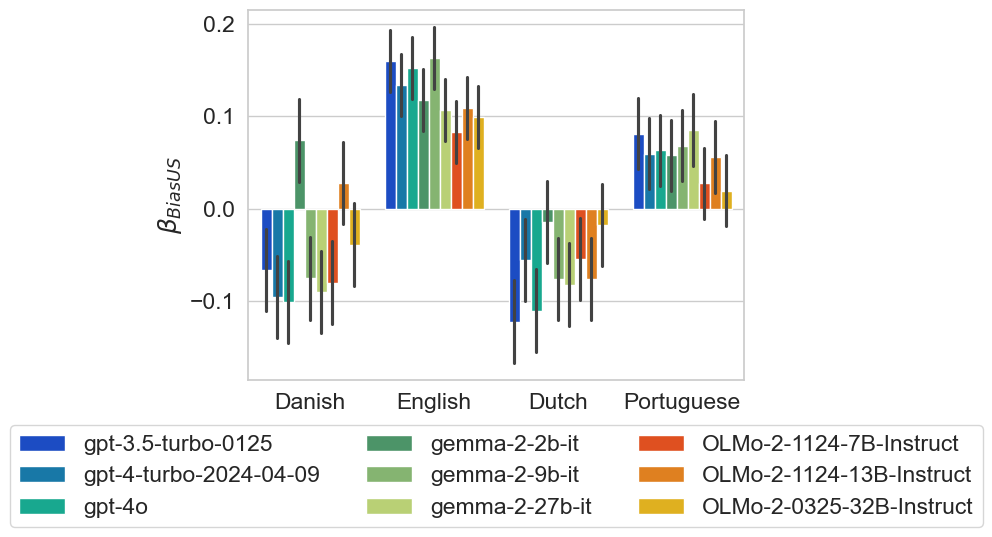
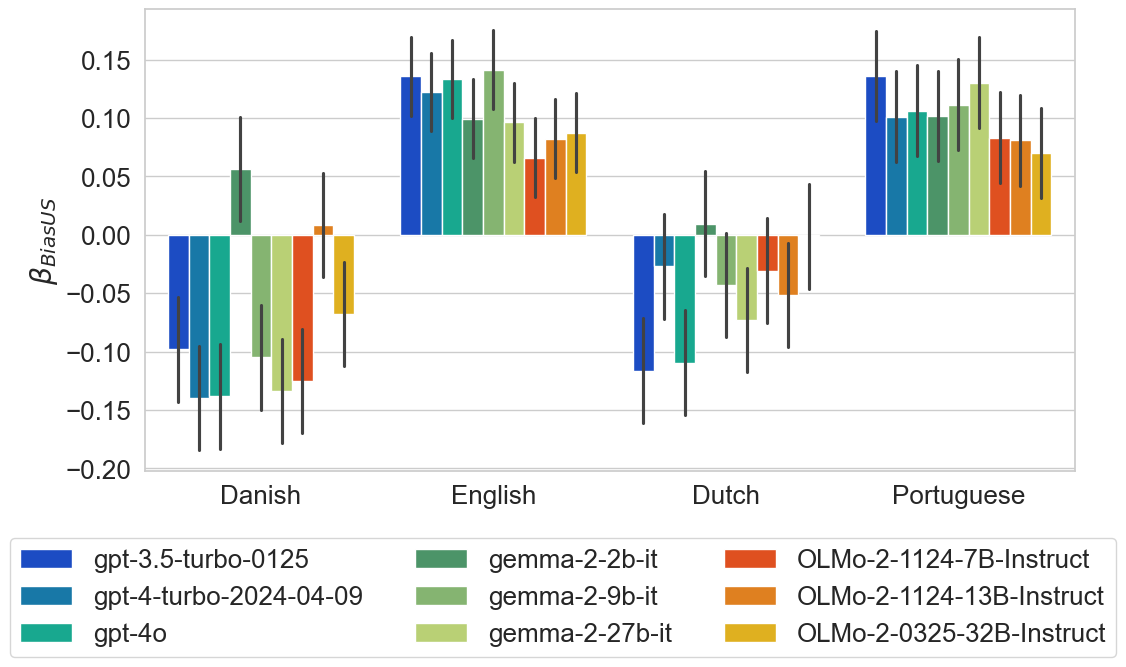
update outputs

diff --git a/scripts/plot_multilingual_benchmarks.py b/scripts/plot_multilingual_benchmarks.py
@@ -71,9 +71,13 @@ def get_benchmark_data():
     return benches
 
 
+def save_regression_results(results: RegressionResults, regression_type: str) -> None:
+    output_path = OUTPUT_DIR / f"multilingual_regression_results_{regression_type}.txt"
+    output_path.write_text(results.summary().as_text())
+
+
 def calculate_adjusted_alignments(regression_data: pl.DataFrame, regression_type: str = "normal") -> pl.DataFrame:
     all_alignments = []
-    logger.debug(f"{regression_data.head()=}")
     N_ITERATIONS = 100
     for _ in tqdm(range(N_ITERATIONS)):
         resampled = regression_data.sample(fraction=1.0, with_replacement=True)
@@ -99,7 +103,6 @@ def calculate_adjusted_alignments(regression_data: pl.DataFrame, regression_type
 
 def get_language_regression_data(benchmarks: pl.DataFrame, experiment_data: pl.DataFrame) -> pl.DataFrame:
     aggregated_bench = benchmarks.group_by("model", "language").agg(pl.col("score").mean())
-    logger.debug(f"{aggregated_bench.head()=}")
     regression_data = add_families_df(
         experiment_data.filter(pl.col("gt_type") == "language")
         .with_row_index()
@@ -112,7 +115,6 @@ def get_language_regression_data(benchmarks: pl.DataFrame, experiment_data: pl.D
         .filter("native")
         .with_columns(pl.col("language").replace(LANGUAGE_MAP))
     )
-    logger.debug(f"{regression_data.head()=}")
     return (
         regression_data.join(aggregated_bench, left_on=["model_name", "language"], right_on=["model", "language"])
         .rename({"score": "multilingual", "metric_value": "alignment"})
@@ -124,7 +126,6 @@ def get_language_regression_data(benchmarks: pl.DataFrame, experiment_data: pl.D
 
 def get_country_regression_data(benchmarks: pl.DataFrame, experiment_data: pl.DataFrame) -> pl.DataFrame:
     aggregated_bench = benchmarks.group_by("model", "language").agg(pl.col("score").mean())
-    logger.debug(f"{aggregated_bench.head()=}")
     regression_data = add_families_df(
         experiment_data.filter(pl.col("gt_type") == "country")
         .with_columns(pl.col("gt_group").replace(COUNTRY_LANG_MAP).alias("spoken_language"))
@@ -137,7 +138,6 @@ def get_country_regression_data(benchmarks: pl.DataFrame, experiment_data: pl.Da
         .sort("model_name")
         .with_columns(pl.col("language").replace(LANGUAGE_MAP))
     )
-    logger.debug(f"{regression_data.head()=}")
     return (
         regression_data.join(aggregated_bench, left_on=["model_name", "language"], right_on=["model", "language"])
         .rename({"score": "multilingual", "metric_value": "alignment"})
@@ -159,7 +159,6 @@ def create_plot_data(
 ) -> pl.DataFrame:
     alignment_clean = calculate_adjusted_alignments(regression_data=regression_data, regression_type=regression_type)
     avg_score = benches.group_by(["model", "language"]).agg(pl.col("score").mean()).rename({"model": "model_name"})
-    logger.debug(f"{avg_score.head()=}")
     return (
         add_families_df(alignment_clean)
         .join(avg_score, on=["model_name", "language"])
@@ -212,6 +211,7 @@ def plot_multilingual_coefficients(regression_data: pl.DataFrame, regression_typ
             continue
         logger.info(f"Running regression with formula: {formula}")
         regression_results = run_multilingual_regression(regression_data, regression_formula=formula)
+        save_regression_results(regression_results, regression_type=name)
         rsquared = calculate_rsquared(regression_results)
         logger.info(f"R-squared values: {rsquared}")
         multilingual_results_df = (
@@ -285,7 +285,6 @@ if __name__ == "__main__":
         regression_type=regression_type,
     )
 
-    logger.debug(f"{benchmark_alignment.head()=}")
     plot = sns.relplot(
         data=benchmark_alignment,
         x="multilingual capability",

diff --git a/scripts/plot_us_centric_bias.py b/scripts/plot_us_centric_bias.py
@@ -95,6 +95,7 @@ def get_confidence_data(significant: pl.DataFrame) -> pl.DataFrame:
 
 
 def plot_us_centric_bias(plot_data: pl.DataFrame) -> None:
+    plt.figure(figsize=(12, 6))
     sns.barplot(
         data=plot_data.sort("model_name").cast({"model_name": str}).with_columns(pl.col("language").replace(LANGUAGE_MAP)),
         x="language",
@@ -106,12 +107,12 @@ def plot_us_centric_bias(plot_data: pl.DataFrame) -> None:
     plt.ylabel("$\\beta_{BiasUS}$")
     plt.xlabel(None)
     # legend below plot in two columns
-    plt.legend(ncol=3, loc="lower center", bbox_to_anchor=(0.5, -0.43))
+    plt.legend(ncol=3, loc="lower center", bbox_to_anchor=(0.45, -0.43))
     plt.savefig(PLOT_DIR / "us_bias_coefficients.png", bbox_inches="tight")
 
 
 def main():
-    sns.set_theme(style="whitegrid", font_scale=1.5)
+    sns.set_theme(style="whitegrid", font_scale=1.7)
     logger.info("Running US-centric bias regression")
     us_results = run_us_regression()
     logger.info(f"Regression table:\n{us_results.summary()}")

diff --git a/scripts/process_wvs.py b/scripts/process_wvs.py
@@ -42,6 +42,16 @@ if __name__ == "__main__":
 
     sample = fulldf.head(2).collect()
 
+    abortion_df = (
+        fulldf.select("cntry_AN", "F120")
+        .filter(pl.col("cntry_AN").is_in({"US", "DK"}))
+        .filter(pl.col("F120") > 0)
+        .group_by("cntry_AN")
+        .agg((pl.col("F120") <= 4).mean().alias("against_abortion"))
+        .collect()
+    )
+    print(abortion_df)
+
     relevant_columns = extract_relevant_columns(fulldf.collect())
 
     max_values = fulldf.select(relevant_columns).max()
